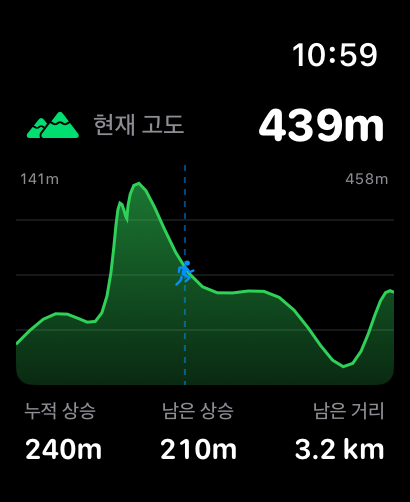
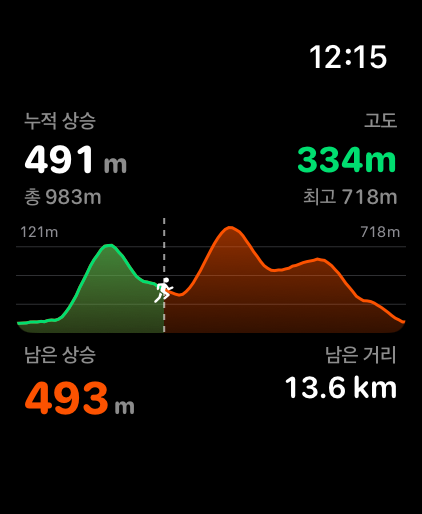
0.3.7 대회 기능 반영: 구간·대회 CP·길안내 강도·배터리/보급·기록 보존, 워치 스크린샷 교체

diff --git a/index.html b/index.html
@@ -664,11 +664,11 @@
                         </div>
                     </article>
                     <article class="jcard" data-at="0.34" data-label="CP">
-                        <div class="hud"><span class="tag" style="color:#64B5F6">CP2</span><span class="big">1.8 km</span><span class="sub">급수 지점</span></div>
+                        <div class="hud"><span class="tag" style="color:#64B5F6">CP2</span><span class="big">4.0 km</span><span class="sub">컷오프 여유 58분</span></div>
                         <div>
                             <div class="kicker">Checkpoint</div>
-                            <h3>체크포인트·급수 안내</h3>
-                            <p>GPX의 웨이포인트(CP, 급수)를 자동으로 인식해 지도에 표시하고, 200m 전에 음성으로 알려줍니다.</p>
+                            <h3>대회 CP · 컷오프</h3>
+                            <p>대회 CP와 컷오프를 등록하면 다음 CP까지 거리·오르막, 도착 예상 시각, 컷오프 여유를 보여 주고 500m 전과 통과할 때 음성으로 알려줍니다. GPX 웨이포인트는 CP로 자동 인식합니다.</p>
                         </div>
                     </article>
                     <article class="jcard" data-at="0.5" data-label="정상">
@@ -751,6 +751,8 @@
                         </button>
                         <div class="watch-frame">
                             <div class="carousel-track" data-track>
+                                <div class="carousel-slide"><img src="assets/워치_구간.png" alt="구간 화면 - 오르막 구간 남은 거리와 남은 상승" draggable="false"></div>
+                                <div class="carousel-slide"><img src="assets/워치_CP.png" alt="CP 화면 - 다음 CP 거리, 도착 예상, 컷오프 여유" draggable="false"></div>
                                 <div class="carousel-slide"><img src="assets/워치_트랙목록.png" alt="Watch 코스 목록 - 자유 러닝과 코스 카드" draggable="false"></div>
                                 <div class="carousel-slide"><img src="assets/워치_러닝시작.png" alt="러닝 시작 - 고도 프로필과 코스 요약" draggable="false"></div>
                                 <div class="carousel-slide"><img src="assets/워치_네비게이션.png" alt="네비게이션 - 방향 안내와 진행률" draggable="false"></div>
@@ -804,8 +806,10 @@
                     <!-- 5가지 러닝 화면 -->
                     <div class="feature-card">
                         <div class="feature-icon">📱</div>
-                        <h3>6가지 러닝 화면</h3>
-                        <p>1. 네비게이션 - 방향 나침반과 다음 포인트 거리<br>
+                        <h3>8가지 러닝 화면</h3>
+                        <p>구간 - 오르막·내리막·평지 구간별 남은 거리·상승·경사<br>
+                        CP - 다음 CP까지 거리, 도착 예상 시각, 컷오프 여유<br>
+                        1. 네비게이션 - 방향 나침반과 다음 포인트 거리<br>
                         2. 지도 - 실시간 위치, 경로, 체크포인트 표시<br>
                         3. 고도 - 전체 코스 고도 그래프 위 내 위치, 누적·남은·총 상승, 현재·최고 고도<br>
                         4. 운동 통계 - 순정 운동 앱 스타일 큰 지표를 한 화면에, 심박 존 게이지<br>
@@ -827,11 +831,39 @@
                         <p>오르막 시작 200m 전에 길이·평균 경사·상승고도를 음성으로 안내. 실시간 경사도(%)와 상승 속도(VAM), 코스 기준 남은 상승고도까지 — 트레일의 언덕을 미리 알고 페이스를 배분하세요.</p>
                     </div>
 
-                    <!-- 체크포인트·급수 안내 -->
+                    <!-- 구간 화면 -->
+                    <div class="feature-card">
+                        <div class="feature-icon">📈</div>
+                        <h3>구간 화면<span class="badge-new">NEW</span></h3>
+                        <p>코스를 오르막·내리막·평지 구간으로 나눠 지금 구간의 남은 거리, 남은 상승, 평균·최대 경사와 다음 구간을 보여 줍니다. 대회에서 페이스를 나누는 기준이 됩니다.</p>
+                    </div>
+
+                    <!-- 대회 CP -->
                     <div class="feature-card">
                         <div class="feature-icon">📍</div>
-                        <h3>체크포인트·급수 안내</h3>
-                        <p>GPX 파일의 웨이포인트(CP, 급수 지점)를 자동 인식. 지도에 마커로 표시되고, 접근 200m 전 음성으로 알려줍니다. 대회 코스 GPX를 그대로 활용하세요.</p>
+                        <h3>대회 CP · 컷오프<span class="badge-new">NEW</span></h3>
+                        <p>iPhone 코스 상세 → 대회 CP에서 CP 이름·거리·보급 여부·컷오프를 등록하세요. Watch가 다음 CP까지 거리와 오르막, 도착 예상 시각, 컷오프 여유를 보여 주고 500m 전과 통과할 때 음성으로 알려줍니다. GPX 웨이포인트는 CP로 자동 인식합니다.</p>
+                    </div>
+
+                    <!-- 길안내 강도 -->
+                    <div class="feature-card">
+                        <div class="feature-icon">🪧</div>
+                        <h3>길안내 강도<span class="badge-new">NEW</span></h3>
+                        <p>마킹이 좋은 대회는 '최소'로 이탈할 때만 한 번, 처음 가는 길은 '정밀'로 큰 갈림길까지 미리 안내받으세요. 설정 → 러닝 → 길안내 강도.</p>
+                    </div>
+
+                    <!-- 배터리·보급 알림 -->
+                    <div class="feature-card">
+                        <div class="feature-icon">🔋</div>
+                        <h3>배터리 · 보급 알림<span class="badge-new">NEW</span></h3>
+                        <p>배터리 20%·10%와 결승 전 배터리 부족을 미리 알리고, 10%에서 배터리 절약 GPS로 바꿉니다. 보급 알림을 켜면 정해 둔 간격마다 먹고 마실 시간을 알려 줍니다.</p>
+                    </div>
+
+                    <!-- 러닝 기록 보존 -->
+                    <div class="feature-card">
+                        <div class="feature-icon">💾</div>
+                        <h3>러닝 기록 보존<span class="badge-new">NEW</span></h3>
+                        <p>러닝 중 기록을 계속 저장합니다. 앱이 꺼져도 다시 열면 그대로 이어 달리고, 배터리가 꺼져 끝난 러닝도 저장할 수 있습니다.</p>
                     </div>
 
                     <!-- 안전 기능 -->

diff --git a/en/index.html b/en/index.html
@@ -664,11 +664,11 @@
                         </div>
                     </article>
                     <article class="jcard" data-at="0.34" data-label="CP">
-                        <div class="hud"><span class="tag" style="color:#64B5F6">CP2</span><span class="big">1.8 km</span><span class="sub">Aid station</span></div>
+                        <div class="hud"><span class="tag" style="color:#64B5F6">CP2</span><span class="big">4.0 km</span><span class="sub">58 min to cutoff</span></div>
                         <div>
                             <div class="kicker">Checkpoint</div>
-                            <h3>Checkpoints & Aid Stations</h3>
-                            <p>Waypoints in your GPX (checkpoints, aid stations) are picked up automatically, shown on the map, and announced 200 m ahead.</p>
+                            <h3>Race Checkpoints & Cutoffs</h3>
+                            <p>Add your race CPs and cutoffs to see distance and climb to the next CP, estimated arrival, and time to cutoff, with voice alerts 500 m ahead and as you pass. GPX waypoints are picked up as CPs automatically.</p>
                         </div>
                     </article>
                     <article class="jcard" data-at="0.5" data-label="Summit">
@@ -749,6 +749,8 @@
                         </button>
                         <div class="watch-frame">
                             <div class="carousel-track" data-track>
+                                <div class="carousel-slide"><img src="../assets/en/watch_sections.png" alt="Sections - distance and climb left in the current climb" draggable="false"></div>
+                                <div class="carousel-slide"><img src="../assets/en/watch_checkpoints.png" alt="Checkpoints - distance to the next CP, estimated arrival, and time to cutoff" draggable="false"></div>
                                 <div class="carousel-slide"><img src="../assets/en/watch_courses.png" alt="Watch course list - Free Run and course cards" draggable="false"></div>
                                 <div class="carousel-slide"><img src="../assets/en/watch_start_run.png" alt="Start Run - elevation profile and course summary" draggable="false"></div>
                                 <div class="carousel-slide"><img src="../assets/en/watch_navigation.png" alt="Navigation - turn guidance and progress" draggable="false"></div>
@@ -801,8 +803,10 @@
                     <!-- Six run screens -->
                     <div class="feature-card">
                         <div class="feature-icon">📱</div>
-                        <h3>Six Run Screens</h3>
-                        <p>1. Navigation - direction compass and distance to the next point<br>
+                        <h3>Eight Run Screens</h3>
+                        <p>Sections - distance, climb, and grade left in each climb, descent, and flat<br>
+                        Checkpoints - distance to the next CP, estimated arrival, and time to cutoff<br>
+                        1. Navigation - direction compass and distance to the next point<br>
                         2. Map - live location, route, and checkpoints<br>
                         3. Elevation - your position on the full-course elevation graph, gain so far / left / total, and current and max elevation<br>
                         4. Stats - big, Workout-app-style metrics on a single screen with a heart rate zone gauge<br>
@@ -827,8 +831,36 @@
                     <!-- Checkpoint and aid station alerts -->
                     <div class="feature-card">
                         <div class="feature-icon">📍</div>
-                        <h3>Checkpoint & Aid Station Alerts</h3>
-                        <p>Waypoints in your GPX file (CPs, aid stations) are recognized automatically. They appear as markers on the map, and a voice alert lets you know 200 m before you reach each one. Just use the race course GPX as is.</p>
+                        <h3>Race Checkpoints & Cutoffs<span class="badge-new">NEW</span></h3>
+                        <p>Add CP names, distances, aid stations, and cutoffs in iPhone Course Details → Race CPs. Your Watch shows distance and climb to the next CP, estimated arrival, and time to cutoff, with voice alerts 500 m ahead and as you pass. GPX waypoints are recognized as CPs automatically.</p>
+                    </div>
+
+                    <!-- Sections -->
+                    <div class="feature-card">
+                        <div class="feature-icon">📈</div>
+                        <h3>Sections<span class="badge-new">NEW</span></h3>
+                        <p>Your course is split into climbs, descents, and flats. See distance left, climb left, average and max grade for the current section, and what comes next. A simple way to pace a race.</p>
+                    </div>
+
+                    <!-- Guidance level -->
+                    <div class="feature-card">
+                        <div class="feature-icon">🪧</div>
+                        <h3>Guidance Level<span class="badge-new">NEW</span></h3>
+                        <p>Choose Minimal for well-marked races (one alert when you go off course) or Precise for unfamiliar trails (major forks announced ahead). Settings → Running → Guidance level.</p>
+                    </div>
+
+                    <!-- Battery & fuel -->
+                    <div class="feature-card">
+                        <div class="feature-icon">🔋</div>
+                        <h3>Battery & Fuel Alerts<span class="badge-new">NEW</span></h3>
+                        <p>Get alerts at 20% and 10% battery or if it may not last to the finish, with battery saver GPS at 10%. Turn on fuel reminders to be told when it's time to eat and drink.</p>
+                    </div>
+
+                    <!-- Run recovery -->
+                    <div class="feature-card">
+                        <div class="feature-icon">💾</div>
+                        <h3>Run Recovery<span class="badge-new">NEW</span></h3>
+                        <p>Your run is saved as you go. If the app closes, reopen it and keep running, and save runs cut short by a dead battery.</p>
                     </div>
 
                     <!-- Safety features -->

diff --git a/support.html b/support.html
@@ -390,8 +390,18 @@
             </div>
 
             <div class="faq-item">
-                <h3>체크포인트(CP)·급수 지점 안내를 받으려면?</h3>
-                <p>웨이포인트(&lt;wpt&gt;)가 포함된 GPX 파일을 가져오면 자동으로 인식됩니다. 대회 주최측이 제공하는 GPX에 보통 포함되어 있으며, 지도에 마커로 표시되고 접근 200m 전에 음성으로 알려줍니다.</p>
+                <h3>대회 CP와 컷오프는 어떻게 등록하나요?</h3>
+                <p>iPhone 앱의 코스 상세 → 대회 CP에서 CP 이름, 출발부터 거리, 보급 여부, 컷오프(출발 후 경과 시간)를 등록하세요. 저장하면 Watch로 다시 보내지고, 코스 카드에서 Watch에 저장됐는지 확인할 수 있습니다. 등록한 CP가 없으면 GPX의 웨이포인트(&lt;wpt&gt;)를 CP로 자동 인식합니다. 러닝 중에는 CP 화면에서 다음 CP까지 거리, 도착 예상 시각, 컷오프 여유를 보고, 500m 전과 통과할 때 음성으로 안내받습니다.</p>
+            </div>
+
+            <div class="faq-item">
+                <h3>길안내 강도는 무엇을 고르면 되나요?</h3>
+                <p>설정 → 러닝 → 길안내 강도에서 고릅니다. 코스 마킹이 잘 된 대회는 '최소'(크게 벗어났을 때 한 번 알림), 일반 트레일은 '보통', 처음 가는 길은 '정밀'(큰 갈림길 60m 전 미리 안내)을 권합니다.</p>
+            </div>
+
+            <div class="faq-item">
+                <h3>앱이 꺼지거나 배터리가 다 되면 기록은 어떻게 되나요?</h3>
+                <p>러닝 중 기록을 계속 저장합니다. 앱이 꺼진 경우 다시 열면 러닝 화면으로 돌아가 이어 달릴 수 있고, 배터리가 꺼져 끝난 러닝은 다음에 앱을 열 때 저장할지 물어봅니다. 배터리 20%·10%에는 미리 알려 주고 10%에서 배터리 절약 GPS로 바꿉니다.</p>
             </div>
 
             <div class="faq-item">

diff --git a/en/support.html b/en/support.html
@@ -390,8 +390,18 @@
             </div>
 
             <div class="faq-item">
-                <h3>How do I get checkpoint (CP) and aid station alerts?</h3>
-                <p>Import a GPX file that includes waypoints (&lt;wpt&gt;) and they're recognized automatically. GPX files provided by race organizers usually include them. They appear as markers on the map, and a voice alert lets you know 200 m before you reach each one.</p>
+                <h3>How do I add race checkpoints and cutoffs?</h3>
+                <p>In the iPhone app, open Course Details → Race CPs and add each CP's name, distance from the start, aid station, and cutoff (time since the start). Saving sends the course to your Watch again, and the course card shows when it's saved there. If you haven't added CPs, waypoints (&lt;wpt&gt;) in the GPX are used as CPs automatically. During the run, the Checkpoints screen shows distance to the next CP, estimated arrival, and time to cutoff, with voice alerts 500 m ahead and as you pass.</p>
+            </div>
+
+            <div class="faq-item">
+                <h3>Which guidance level should I choose?</h3>
+                <p>Choose it in Settings → Running → Guidance level. Minimal suits well-marked races (one alert when you're clearly off course), Normal suits everyday trails, and Precise suits unfamiliar routes (major forks announced 60 m ahead).</p>
+            </div>
+
+            <div class="faq-item">
+                <h3>What happens to my run if the app closes or the battery dies?</h3>
+                <p>Your run is saved as you go. If the app closes, reopen it to return to the run screen and keep going. If the battery dies, the app asks whether to save that run the next time you open it. You'll also get alerts at 20% and 10% battery, and GPS switches to battery saver at 10%.</p>
             </div>
 
             <div class="faq-item">
